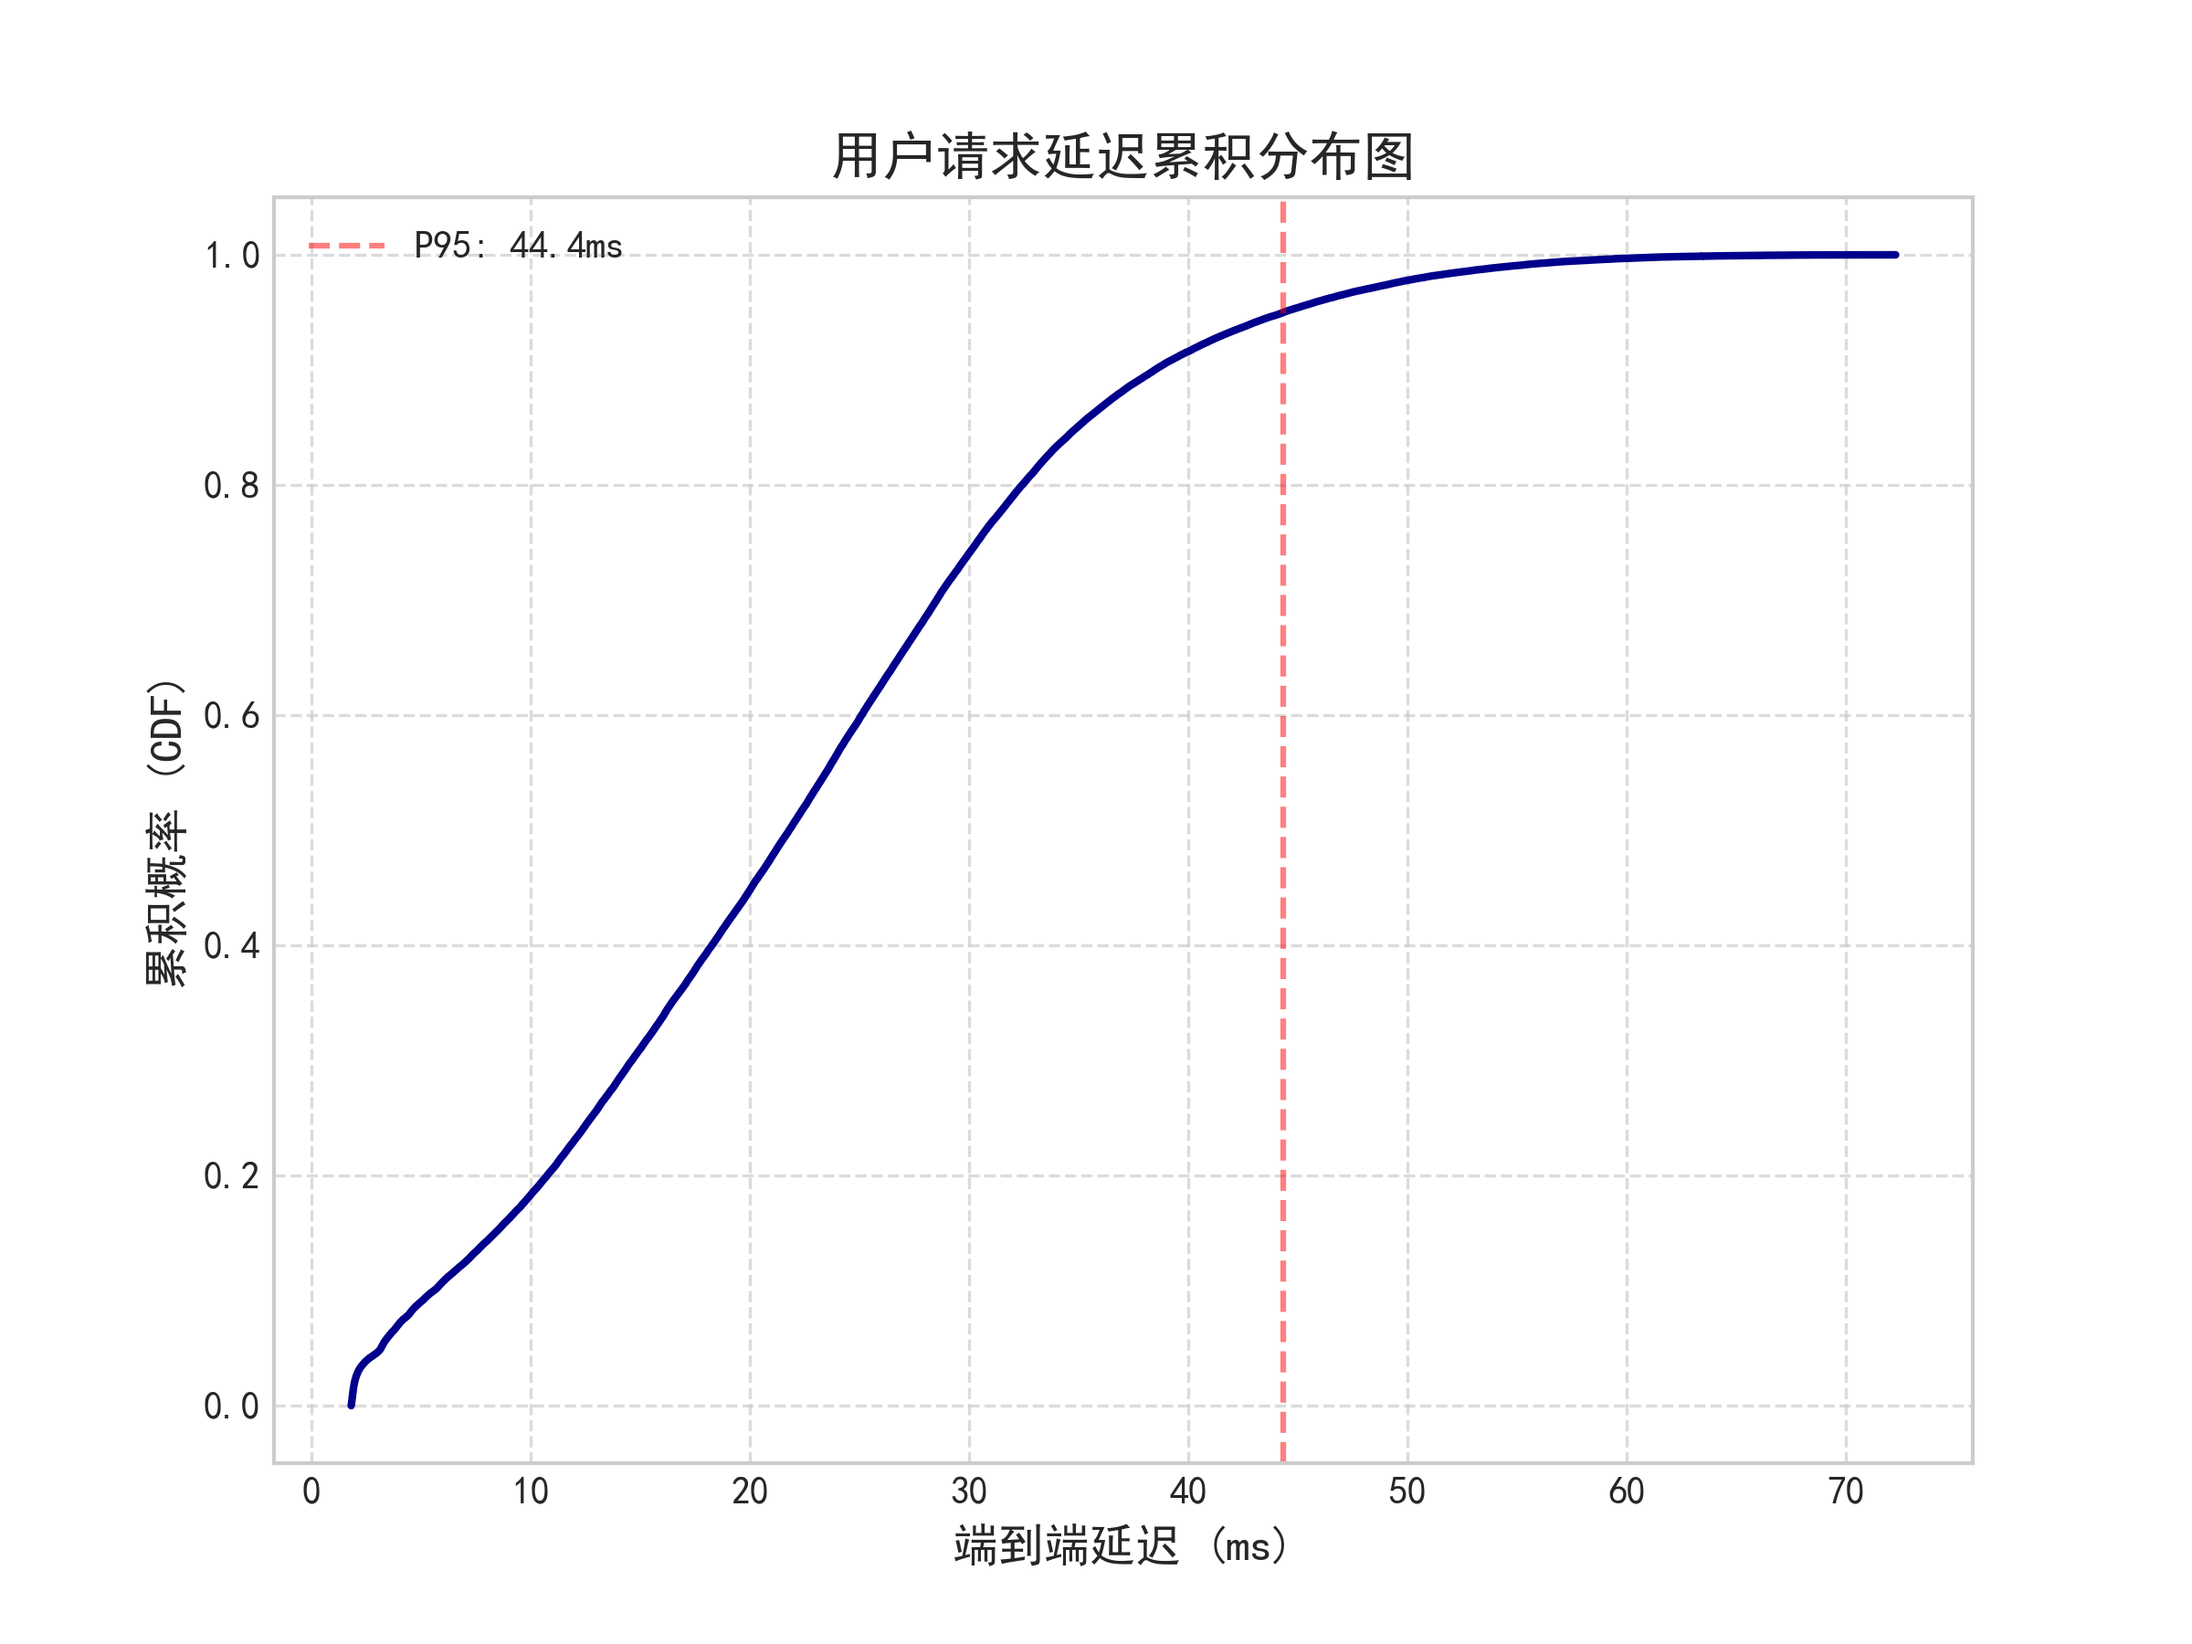
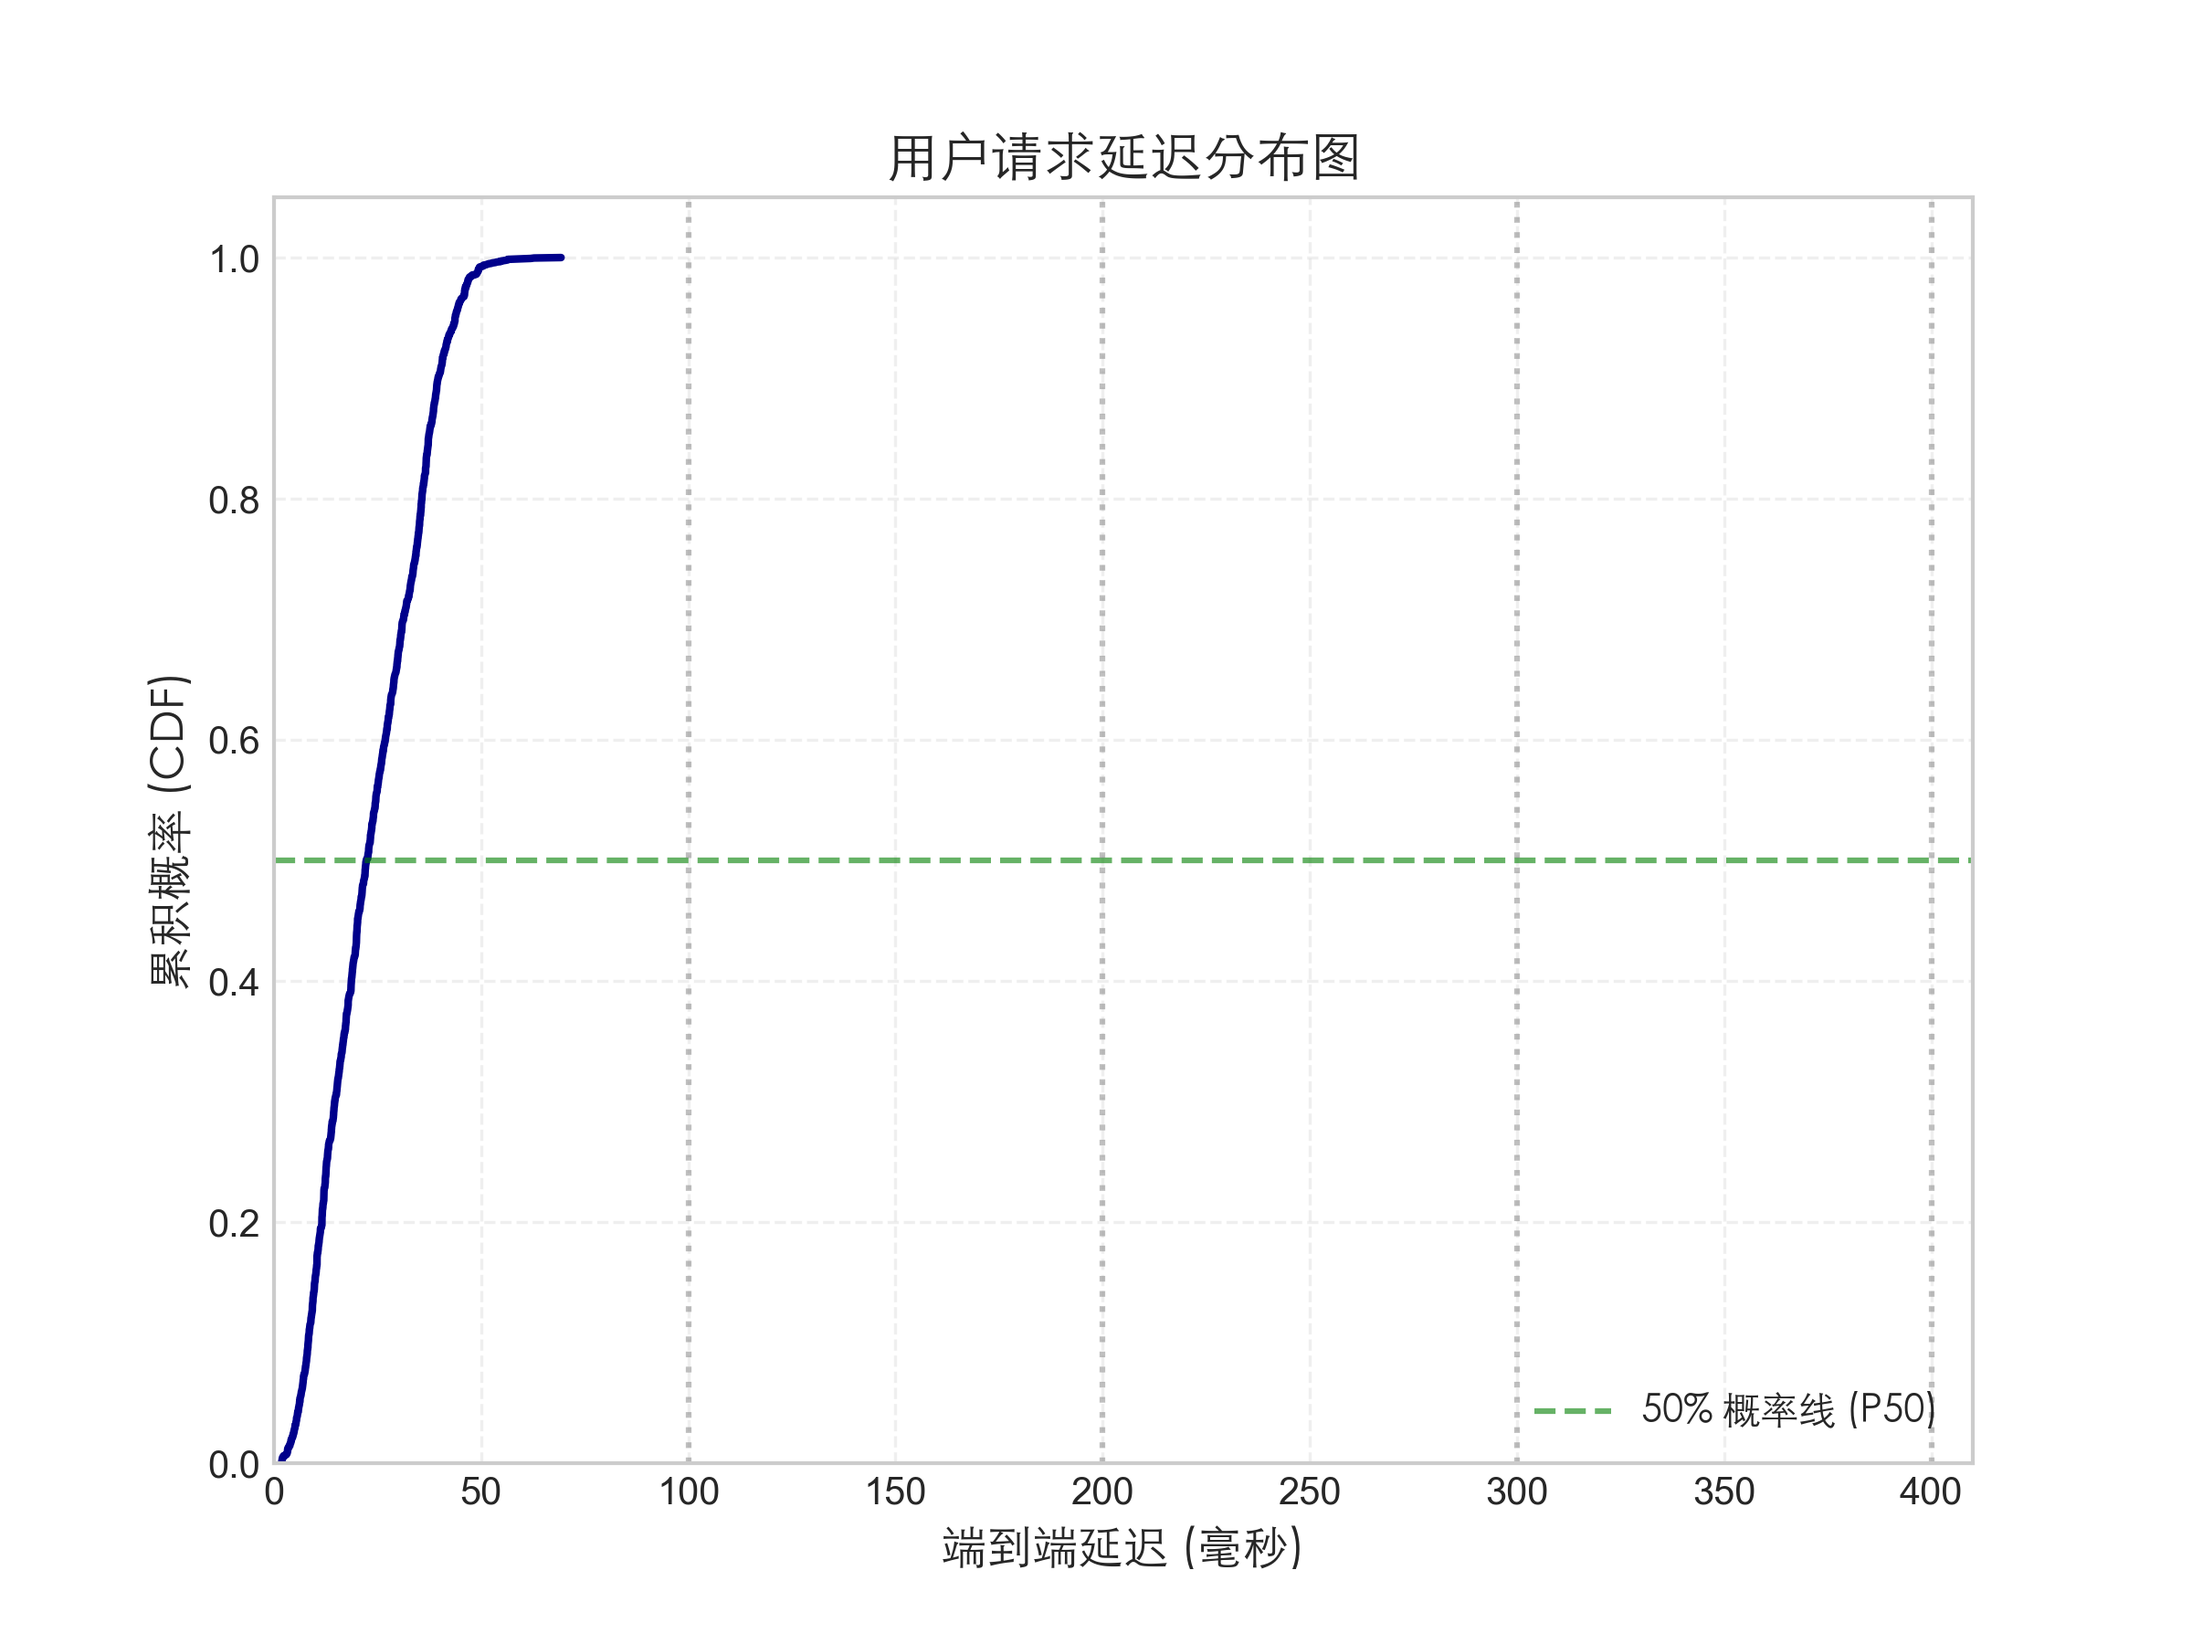
新增Visualization

diff --git a/main.py b/main.py
@@ -8,6 +8,7 @@ import numpy as np
 import matplotlib.pyplot as plt
 from datetime import datetime
 from Classes import MegaConstellation, User
+import Visualization
 
 # 文件路径
 TLE_SAT_FILE = "configuration/S_constellation.tle"
@@ -290,7 +291,7 @@ def run_simulation():
     start_timestamp = get_trace_start_time(TRACE_FILE)
     print(f"仿真起始时间戳为: {start_timestamp}")
 
-    simulation_duration = 1209600 # 仿真持续时间，单位秒
+    simulation_duration = 6000 # 仿真持续时间，单位秒
     time_step = 60             # 步长
     
     current_time = start_timestamp
@@ -338,114 +339,9 @@ def run_simulation():
     print("仿真结束")
     print(f"最终总命中次数: {global_stats['total_hits']}")
 
-    if all_request_latencies:
-        # 转换为毫秒
-        latencies_ms = [t * 1000 for t in all_request_latencies]
-        
-        # 平均延迟
-        avg_latency = sum(latencies_ms) / len(latencies_ms)
-        
-        # 最小/最大延迟
-        min_latency = min(latencies_ms)
-        max_latency = max(latencies_ms)
-        
-        # 百分位延迟
-        latencies_ms.sort()
-        p50_idx = int(len(latencies_ms) * 0.5)
-        p95_idx = int(len(latencies_ms) * 0.95)
-        p99_idx = int(len(latencies_ms) * 0.99)
-        
-        p50_latency = latencies_ms[p50_idx] # 中位数
-        p95_latency = latencies_ms[p95_idx] # 95% 的请求延迟都低于此值
-        p99_latency = latencies_ms[p99_idx] # 99% 的请求延迟都低于此值
-
-        print(f"统计请求总数: {len(latencies_ms)}")
-        print(f"平均延迟 (Avg): {avg_latency:.2f} ms")
-        print(f"中位数延迟 (P50): {p50_latency:.2f} ms")
-        print(f"95%延迟 (P95): {p95_latency:.2f} ms")
-        print(f"99%延迟 (P99): {p99_latency:.2f} ms")
-        print(f"最小延迟 (Min): {min_latency:.2f} ms")
-        print(f"最大延迟 (Max): {max_latency:.2f} ms")
-    else:
-        print("没有成功处理任何请求，无法计算延迟统计。")
-
-    # 引入字体管理器
-    import matplotlib.font_manager as fm
-    
-    # 设置风格
-    plt.style.use('seaborn-v0_8-whitegrid')
-
-    # 定义系统常见的中文自体文件路径列表 (按优先级)
-    mac_font_paths = [
-        '/System/Library/Fonts/STHeiti Light.ttc',         # 华文黑体-轻
-        r'C:\Windows\Fonts\simhei.ttf',    # SimHei (黑体) 
-        r'C:\Windows\Fonts\msyh.ttc',      # Microsoft YaHei (微软雅黑)
-        r'C:\Windows\Fonts\simsun.ttc',    # SimSun (宋体)
-        r'C:\Windows\Fonts\kaiu.ttf',      # KaiTi (楷体)
-        r'C:\Windows\Fonts\Deng.ttf',      # DengXian (等线)
-    ]
-    
-    # 遍历查找存在的字体文件
-    selected_font_path = None
-    for f_path in mac_font_paths:
-        if os.path.exists(f_path):
-            selected_font_path = f_path
-            break
-            
-    # 加载字体
-    if selected_font_path:
-        # 将字体文件加入 Matplotlib 管理器
-        fm.fontManager.addfont(selected_font_path)
-        # 获取该字体的内部名称
-        prop = fm.FontProperties(fname=selected_font_path)
-        custom_font_name = prop.get_name()
-        
-        # 设置全局默认字体
-        plt.rcParams['font.sans-serif'] = [custom_font_name] + plt.rcParams['font.sans-serif']
-        plt.rcParams['font.family'] = 'sans-serif'
-        plt.rcParams['axes.unicode_minus'] = False
-    else:
-        print("未找到任何系统中文字体文件")
- 
-    # 端到端延迟 CDF (累积分布函数) 
-    # 展示有多少比例的请求延迟低于某个值 
-    if all_request_latencies:
-        plt.figure(figsize=(8, 6))
-        # 转换为毫秒
-        lat_data_ms = np.array(all_request_latencies) * 1000
-        # 排序
-        sorted_data = np.sort(lat_data_ms)
-        # 计算 y 轴 (0 ~ 1)
-        yvals = np.arange(len(sorted_data)) / float(len(sorted_data) - 1)
-        
-        plt.plot(sorted_data, yvals, linewidth=2, color='darkblue')
-        plt.xlabel('端到端延迟 (ms)', fontsize=12)
-        plt.ylabel('累积概率 (CDF)', fontsize=12)
-        plt.title('用户请求延迟累积分布图', fontsize=14)
-        plt.grid(True, linestyle='--', alpha=0.7)
-        
-        # 标出 P95 线
-        p95_val = sorted_data[int(len(sorted_data)*0.95)]
-        plt.axvline(p95_val, color='red', linestyle='--', alpha=0.5, label=f'P95: {p95_val:.1f}ms')
-        plt.legend()
-        plt.savefig('Result_Latency_CDF.png', dpi=300)
-        print("  - 已保存: Result_Latency_CDF.png")
-        plt.close()
-
-    # 平均延迟随时间变化趋势
-    if history_avg_latencies:
-        plt.figure(figsize=(10, 5))
-        plt.plot(history_timestamps, history_avg_latencies, marker='o', markersize=4, linestyle='-', color='teal')
-        plt.xlabel('仿真时间 (s)', fontsize=12)
-        plt.ylabel('平均延迟 (ms)', fontsize=12)
-        plt.title('网络平均延迟随时间变化趋势', fontsize=14)
-        plt.grid(True, linestyle='--', alpha=0.7)
-        plt.savefig('Result_Latency_Trend.png', dpi=300)
-        print("  - 已保存: Result_Latency_Trend.png")
-        plt.close()
-
-    
-    plt.show()
+    # 可视化结果
+    viz = Visualization.ResultVisualizer()
+    viz.plot_latency_cdf(all_request_latencies) # 画延迟 CDF
 
 if __name__ == "__main__":
     run_simulation()

diff --git a/Visualization.py b/Visualization.py
@@ -1,0 +1,135 @@
+import os
+import numpy as np
+import matplotlib.pyplot as plt
+import matplotlib.font_manager as fm
+
+class ResultVisualizer:
+    def __init__(self):
+        """初始化可视化器"""
+        # 设置基础绘图风格
+        try:
+            plt.style.use('seaborn-v0_8-whitegrid')
+        except OSError:
+            plt.style.use('ggplot')
+
+        font_path = '/System/Library/Fonts/STHeiti Light.ttc' # Mac 黑体
+
+        # 加载字体
+        if os.path.exists(font_path):
+            self.my_font = fm.FontProperties(fname=font_path)
+            print(f"绘图字体： {font_path}")
+        else:
+            print(f"error: 找不到路径 {font_path}")
+            self.my_font = fm.FontProperties() # 回退
+
+    def plot_latency_cdf(self, all_latencies, save_name='Result_Latency_CDF.png'):
+        """
+        端到端延迟的 CDF (累积分布)
+        """
+        if not all_latencies:
+            print(f"数据为空，跳过 {save_name}")
+            return
+
+        plt.figure(figsize=(8, 6))
+        
+        lat_data_ms = np.array(all_latencies) * 1000 # 转换为毫秒
+        
+        sorted_data = np.sort(lat_data_ms) # 排序
+        
+        yvals = np.arange(len(sorted_data)) / float(len(sorted_data) - 1) # 计算 y 轴 (0 ~ 1)
+        
+        plt.plot(sorted_data, yvals, linewidth=2, color='darkblue')
+
+        plt.xlim(0, 410) # 设置 x 轴范围
+        plt.ylim(0, 1.05) # 设置 y 轴范围
+
+        plt.axhline(y=0.5, color='green', linestyle='--', alpha=0.6, label='50% 概率线 (P50)')
+
+        for x_val in [100, 200, 300, 400]:
+            plt.axvline(x=x_val, color='gray', linestyle=':', alpha=0.5)
+
+        plt.xlabel('端到端延迟 (毫秒)', fontproperties=self.my_font, fontsize=12)
+        plt.ylabel('累积概率 (CDF)', fontproperties=self.my_font, fontsize=12)
+        plt.title('用户请求延迟分布图', fontproperties=self.my_font, fontsize=14)
+        
+        plt.legend(prop=self.my_font, fontsize=10, loc='lower right')
+        plt.grid(True, linestyle='--', alpha=0.3)
+        
+        plt.savefig(save_name, dpi=300)
+        print(f"  - 已保存: {save_name}")
+        plt.close()
+
+    def plot_latency_trend(self, timestamps, avg_latencies, save_name='Result_Latency_Trend.png'):
+        """
+        图2: 画平均延迟随时间变化的趋势
+        """
+        if not avg_latencies:
+            print(f"[Visualization] 数据为空，跳过 {save_name}")
+            return
+
+        plt.figure(figsize=(10, 5))
+        plt.plot(timestamps, avg_latencies, marker='o', markersize=4, linestyle='-', color='teal')
+        
+        plt.xlabel('仿真时间 (秒)', fontproperties=self.my_font, fontsize=12)
+        plt.ylabel('平均延迟 (毫秒)', fontproperties=self.my_font, fontsize=12)
+        plt.title('网络性能随时间变化趋势', fontproperties=self.my_font, fontsize=14)
+        plt.grid(True, linestyle='--', alpha=0.7)
+        
+        plt.savefig(save_name, dpi=300)
+        print(f"  - 已保存: {save_name}")
+        plt.close()
+
+    def plot_3d_topology(self, mc, save_name='Result_3D_Topology.png'):
+        """
+        图3: 画 3D 星座拓扑快照
+        """
+        fig = plt.figure(figsize=(12, 10))
+        ax = fig.add_subplot(111, projection='3d')
+        
+        # 1. 画卫星
+        xs, ys, zs = [], [], []
+        for sat in mc.satellites.values():
+            xs.append(sat.position[0])
+            ys.append(sat.position[1])
+            zs.append(sat.position[2])
+        ax.scatter(xs, ys, zs, s=1, c='#0077BE', alpha=0.6, label='低轨卫星')
+        
+        # 2. 画源站 (SDC)
+        if mc.sdcs:
+            s_xs, s_ys, s_zs = [], [], []
+            for sdc in mc.sdcs.values():
+                s_xs.append(sdc.position[0])
+                s_ys.append(sdc.position[1])
+                s_zs.append(sdc.position[2])
+            ax.scatter(s_xs, s_ys, s_zs, s=50, c='red', marker='*', label='空间源站')
+
+        # 3. 画地球线框
+        u, v = np.mgrid[0:2*np.pi:30j, 0:np.pi:15j]
+        earth_x = 6371 * np.cos(u) * np.sin(v)
+        earth_y = 6371 * np.sin(u) * np.sin(v)
+        earth_z = 6371 * np.cos(v)
+        ax.plot_wireframe(earth_x, earth_y, earth_z, color='gray', alpha=0.2, linewidth=0.5)
+
+        # 4. 设置标签
+        ax.set_title('大规模星座三维拓扑', fontproperties=self.my_font, fontsize=15)
+        ax.set_xlabel('X (千米)', fontproperties=self.my_font)
+        ax.set_ylabel('Y (千米)', fontproperties=self.my_font)
+        ax.set_zlabel('Z (千米)', fontproperties=self.my_font)
+        
+        ax.view_init(elev=20, azim=45)
+        plt.legend(loc='upper right', prop=self.my_font, fontsize=10)
+        plt.tight_layout()
+        
+        plt.savefig(save_name, dpi=300)
+        print(f"  - 已保存: {save_name}")
+        plt.close()
+
+    def plot_all(self, all_latencies, timestamps, avg_latencies, mc):
+        """
+        一键生成所有图表
+        """
+        print("\n[Visualization] 正在生成汇报图表...")
+        self.plot_latency_cdf(all_latencies)
+        self.plot_latency_trend(timestamps, avg_latencies)
+        self.plot_3d_topology(mc)
+        print("[Visualization] 所有图表生成完毕。")
